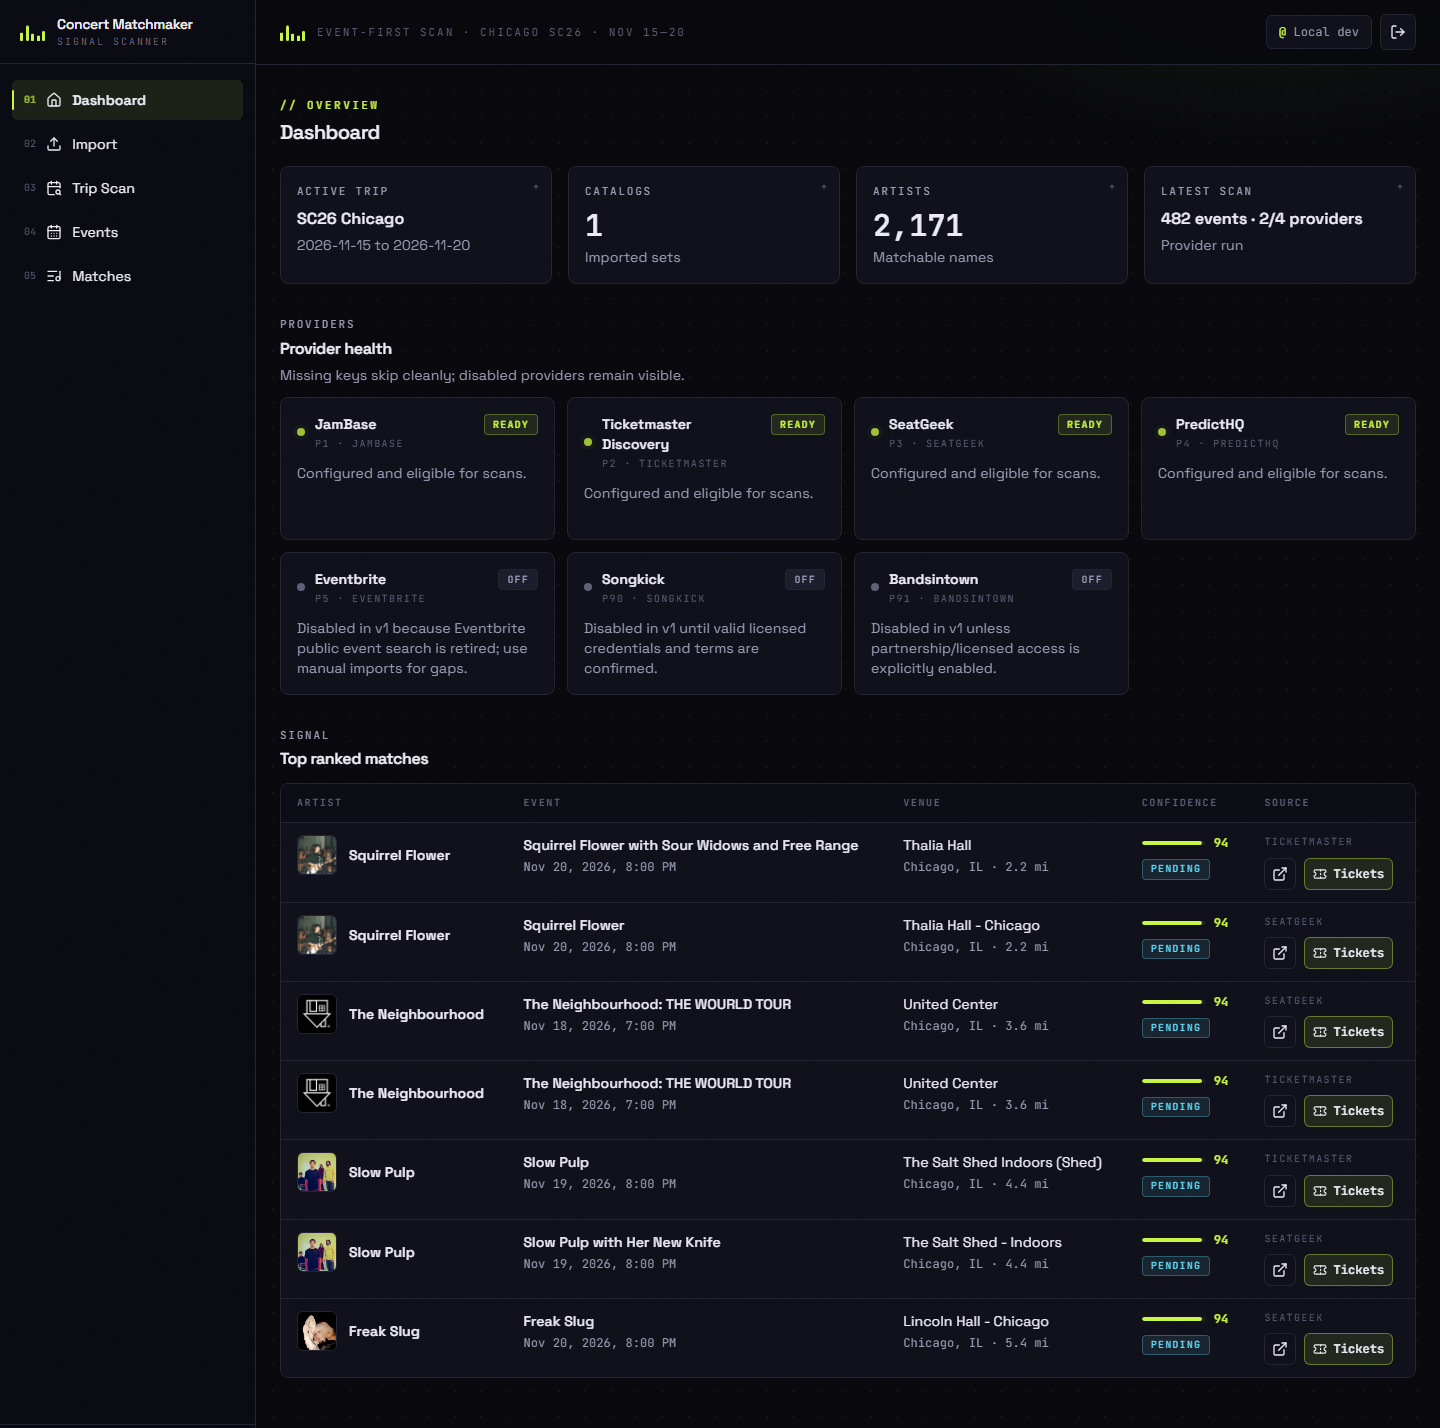
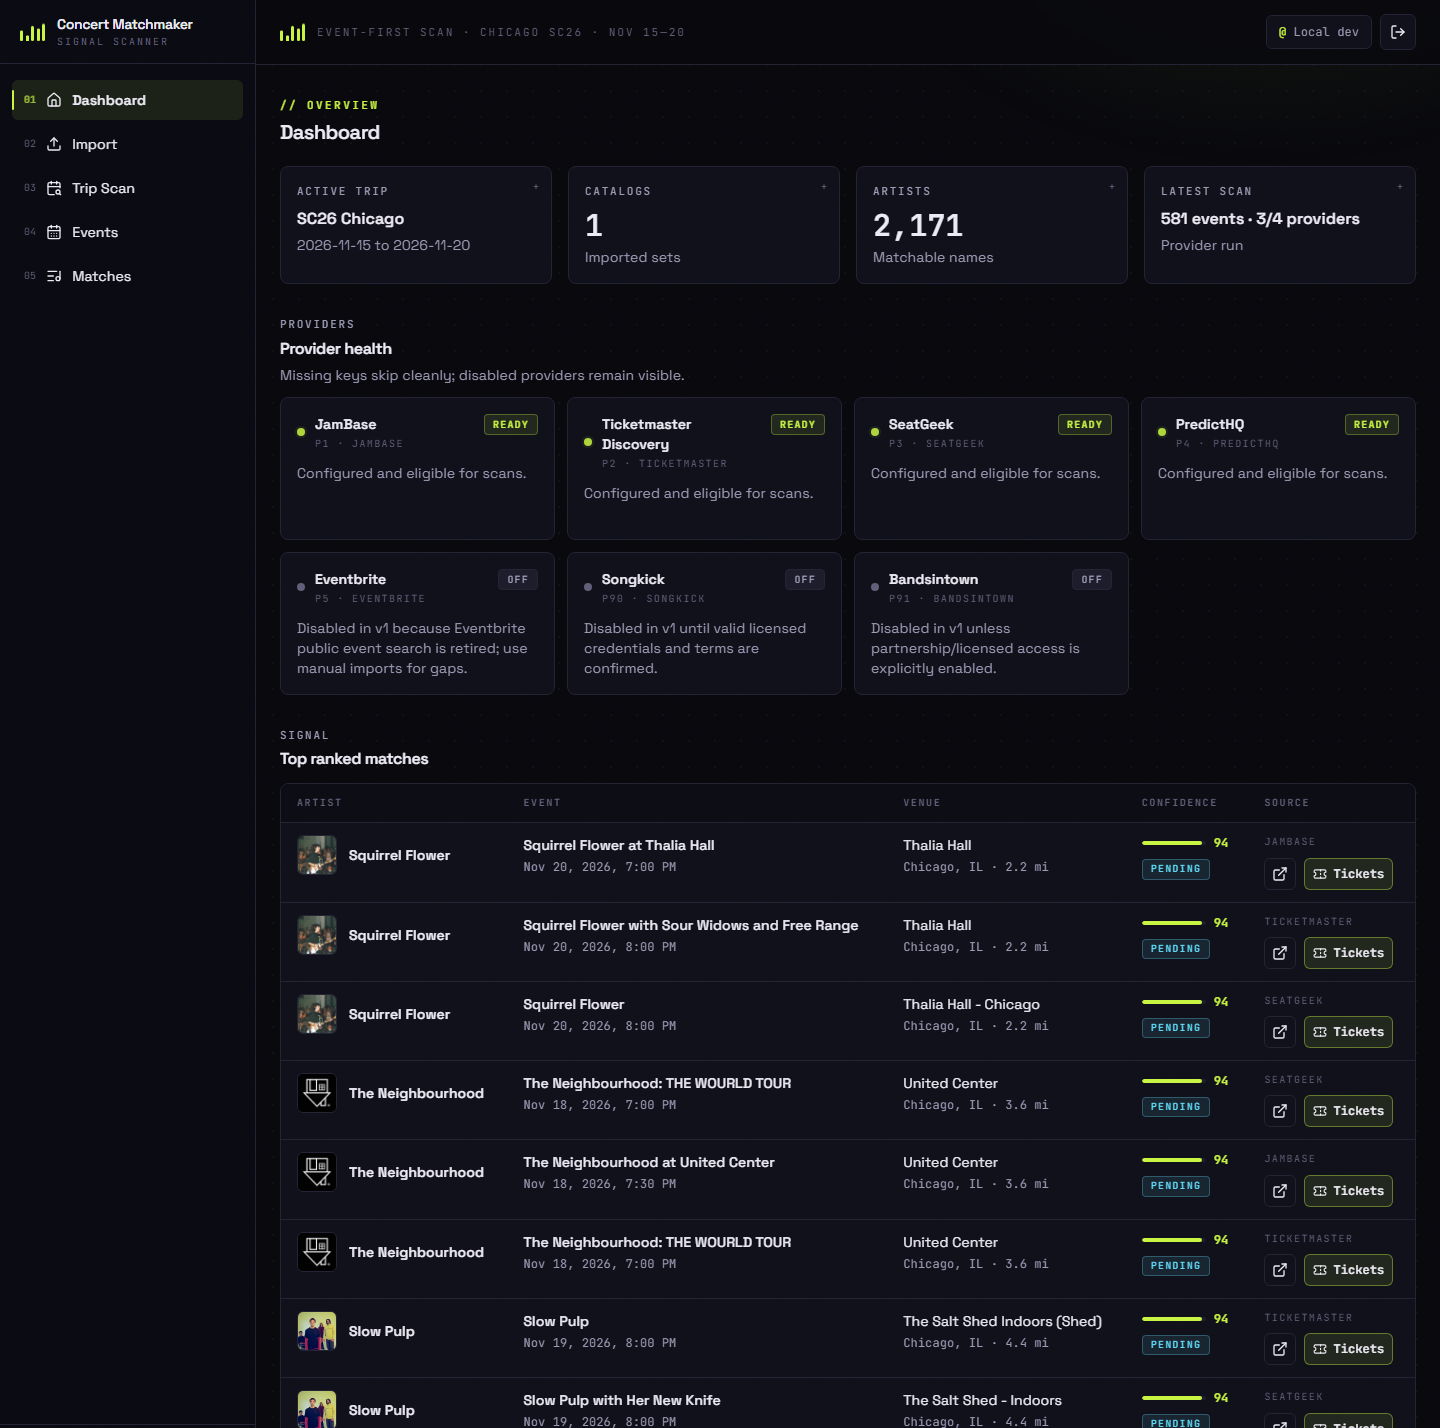
Turn on JamBase: full lineups, venue-local times and all pages
- Read JamBase's schema.org fields: performer lineups, venue-local
  startDate converted with the venue's x-timezone, the primary ticket
  offer, and the nested address for city and state.
- Fetch every page (100 per page) instead of the first 40 events.
- JamBase images sit behind a bot challenge, so JamBase shows borrow the
  headliner's Ticketmaster picture like SeatGeek shows do.
- Stop the guarded subset match from matching repeated-word names
  ('Mother Mother' matched 'Sludge Mother').
- README: Chicago run numbers with JamBase (581 listings, 271 events,
  6 shows) and refreshed screenshots.

diff --git a/lib/providers/adapters.ts b/lib/providers/adapters.ts
@@ -5,6 +5,7 @@ import {
   type ProviderKey,
 } from "@/lib/env";
 import { normalizeArtistName } from "@/lib/normalize";
+import { parseLocalDateTimeInZone } from "@/lib/time";
 import { fetchJson, firstUrl, isoWithoutMs, numberFrom, textFrom } from "./http";
 import type {
   EventProviderAdapter,
@@ -110,22 +111,28 @@ async function scanJamBase(trip: ProviderTrip): Promise<ProviderScanResult> {
   url.searchParams.set("geoRadiusUnits", "mi");
   url.searchParams.set("eventDateFrom", trip.startsOn.toISOString().slice(0, 10));
   url.searchParams.set("eventDateTo", trip.endsOn.toISOString().slice(0, 10));
-  // ponytail: first page only; follow pagination.nextPage once a live JamBase key exists to test it.
+  url.searchParams.set("perPage", "100");
 
-  const payload = await fetchJson<UnknownRecord>(url, {
-    headers: {
-      Authorization: `Bearer ${process.env.JAMBASE_API_KEY}`,
-    },
-  });
-  const events = firstArrayAt(payload, [["events"], ["results"], ["data"]]);
-  if (events.length === 0 && !hasKnownArray(payload, ["events", "results", "data"])) {
-    throw new Error("JamBase response did not include an events array.");
+  const events: unknown[] = [];
+  for (let page = 1; page <= 10; page += 1) {
+    url.searchParams.set("page", String(page));
+    const payload = await fetchJson<UnknownRecord>(url, {
+      headers: {
+        Authorization: `Bearer ${process.env.JAMBASE_API_KEY}`,
+      },
+    });
+    const pageEvents = firstArrayAt(payload, [["events"], ["results"], ["data"]]);
+    if (pageEvents.length === 0 && !hasKnownArray(payload, ["events", "results", "data"])) {
+      throw new Error("JamBase response did not include an events array.");
+    }
+    events.push(...pageEvents);
+    const totalPages = numberFrom(path(payload, ["pagination", "totalPages"])) ?? page;
+    if (page >= totalPages || pageEvents.length === 0) break;
   }
 
-  return {
-    provider: "jambase",
-    events: events.map(mapJamBaseEvent).filter(isEvent),
-  };
+  const mapped = events.map(mapJamBaseEvent).filter(isEvent);
+  await fillImagesFromTicketmaster(mapped);
+  return { provider: "jambase", events: mapped };
 }
 
 async function scanSeatGeek(trip: ProviderTrip): Promise<ProviderScanResult> {
@@ -157,8 +164,9 @@ async function scanSeatGeek(trip: ProviderTrip): Promise<ProviderScanResult> {
   return { provider: "seatgeek", events: mapped };
 }
 
-// SeatGeek's API sends no images; borrow the headliner's picture from
-// Ticketmaster's attraction catalog when the names match exactly.
+// SeatGeek sends no images and JamBase's can't be embedded; borrow the
+// headliner's picture from Ticketmaster's attraction catalog when the names
+// match exactly.
 async function fillImagesFromTicketmaster(events: NormalizedProviderEvent[]) {
   if (!process.env.TICKETMASTER_API_KEY) return;
   const cache = new Map<string, string | undefined>();
@@ -270,7 +278,7 @@ function mapTicketmasterEvent(value: unknown): NormalizedProviderEvent | null {
   };
 }
 
-function mapJamBaseEvent(value: unknown): NormalizedProviderEvent | null {
+export function mapJamBaseEvent(value: unknown): NormalizedProviderEvent | null {
   const event = asRecord(value);
   if (!event) return null;
 
@@ -279,24 +287,36 @@ function mapJamBaseEvent(value: unknown): NormalizedProviderEvent | null {
   if (!title || !venue) return null;
 
   const performers = [
+    ...arrayAt(event, ["performer"]),
     ...arrayAt(event, ["performers"]),
     ...arrayAt(event, ["performances"]).map((performance) =>
       asRecord(performance.artist) ?? performance,
     ),
   ];
+  const genre = textFrom(arrayAt(asRecord(performers[0]) ?? {}, ["genre"])[0]);
+  const offers = arrayAt(event, ["offers"]).map(asRecord);
+  const offer = offers.find((item) => item?.category === "ticketingLinkPrimary") ?? offers[0];
+  // JamBase startDate is venue-local with no offset; the zone sits on the venue address.
+  const startLocal = textFrom(event.startDate) ?? textFrom(event.date);
+  const timezone =
+    textFrom(path(venue, ["address", "x-timezone"])) ?? textFrom(event.timezone);
 
   return {
     provider: "jambase",
     providerId: textFrom(event.id) ?? textFrom(event.identifier),
     title,
-    category: textFrom(event["@type"]) ?? "Concert",
-    imageUrl: textFrom(event.image),
-    startAt: parseDate(event.startDate ?? event.date),
-    startLocal: textFrom(event.startDateLocal) ?? textFrom(event.date),
-    timezone: textFrom(event.timezone),
-    status: textFrom(event.status) ?? "scheduled",
+    // event.image is behind JamBase's bot challenge and can't be embedded; the
+    // scan borrows a Ticketmaster picture instead.
+    category: `Music · ${genre ?? textFrom(event["@type"])?.toLowerCase() ?? "concert"}`,
+    startAt:
+      startLocal && timezone
+        ? parseLocalDateTimeInZone(startLocal, timezone)
+        : parseDate(startLocal),
+    startLocal,
+    timezone,
+    status: textFrom(event.eventStatus) ?? textFrom(event.status) ?? "scheduled",
     providerUrl: textFrom(event.url) ?? firstUrl(event.sameAs),
-    ticketUrl: textFrom(event.ticketUrl) ?? firstUrl(event.offers),
+    ticketUrl: textFrom(event.ticketUrl) ?? textFrom(offer?.url) ?? firstUrl(event.offers),
     venue: mapGenericVenue(venue),
     performers: performers.map(mapGenericPerformer).filter(isPerformer),
   };
@@ -422,11 +442,20 @@ function mapGenericVenue(venue: UnknownRecord): NormalizedVenue {
     address:
       textFrom(venue.address) ??
       textFrom(path(venue, ["address", "line1"])) ??
+      textFrom(path(venue, ["address", "streetAddress"])) ??
       textFrom(path(venue, ["address", "localized_address_display"])),
-    city: textFrom(venue.city) ?? textFrom(path(venue, ["address", "city"])),
-    region: textFrom(venue.region) ?? textFrom(path(venue, ["address", "region"])),
+    city:
+      textFrom(venue.city) ??
+      textFrom(path(venue, ["address", "city"])) ??
+      textFrom(path(venue, ["address", "addressLocality"])),
+    region:
+      textFrom(venue.region) ??
+      textFrom(path(venue, ["address", "region"])) ??
+      textFrom(path(venue, ["address", "addressRegion", "alternateName"])),
     country:
-      textFrom(venue.country) ?? textFrom(path(venue, ["address", "country"])),
+      textFrom(venue.country) ??
+      textFrom(path(venue, ["address", "country"])) ??
+      textFrom(path(venue, ["address", "addressCountry", "identifier"])),
     url: textFrom(venue.url),
   };
 }

diff --git a/tests/jambase.test.ts b/tests/jambase.test.ts
@@ -1,0 +1,44 @@
+import { describe, expect, it } from "vitest";
+import { mapJamBaseEvent } from "@/lib/providers/adapters";
+
+// Trimmed from a real JamBase v3 /events response.
+const concert = {
+  "@type": "Concert",
+  name: "Pimpinela at Rosemont Theatre",
+  identifier: "jambase:16832456",
+  url: "https://www.jambase.com/show/pimpinela-rosemont-theatre-20261115",
+  image: "https://www.jambase.com/wp-content/uploads/2015/06/pimpinela.jpg",
+  eventStatus: "scheduled",
+  startDate: "2026-11-15T20:00:00",
+  location: {
+    "@type": "Venue",
+    name: "Rosemont Theatre",
+    identifier: "jambase:63740",
+    address: {
+      streetAddress: "5400 North River Road",
+      addressLocality: "Rosemont",
+      addressRegion: { alternateName: "IL" },
+      addressCountry: { identifier: "US" },
+      "x-timezone": "America/Chicago",
+    },
+    geo: { latitude: 41.9766, longitude: -87.8637 },
+  },
+  offers: [
+    { url: "https://gametime.example/pimpinela", category: "ticketingLinkSecondary" },
+    { url: "https://ticketmaster.example/pimpinela", category: "ticketingLinkPrimary" },
+  ],
+  performer: [
+    { "@type": "MusicGroup", name: "Pimpinela", identifier: "jambase:46207", genre: ["latin", "pop"] },
+  ],
+};
+
+describe("mapJamBaseEvent", () => {
+  it("reads the lineup, venue-local time and primary ticket link", () => {
+    const event = mapJamBaseEvent(concert)!;
+    expect(event.performers.map((performer) => performer.name)).toEqual(["Pimpinela"]);
+    expect(event.startAt?.toISOString()).toBe("2026-11-16T02:00:00.000Z");
+    expect(event.ticketUrl).toBe("https://ticketmaster.example/pimpinela");
+    expect(event.category).toBe("Music · latin");
+    expect(event.venue).toMatchObject({ city: "Rosemont", region: "IL", latitude: 41.9766 });
+  });
+});

diff --git a/lib/matching.ts b/lib/matching.ts
@@ -84,10 +84,14 @@ export function scorePerformerArtist(
   }
 
   const fuzzy = diceTokenScore(performerName, artistName);
+  // Needs two distinct words: "Mother Mother" collapses to {mother}, which every
+  // "... Mother" act would contain.
+  const artistTokens = tokenSet(artistName);
   const subsetDescriptorMatch =
     performerName.length >= 8 &&
     artistName.length >= 8 &&
-    allTokensIncluded(tokenSet(artistName), tokenSet(performerName));
+    artistTokens.size >= 2 &&
+    allTokensIncluded(artistTokens, tokenSet(performerName));
 
   if (
     (fuzzy >= 0.92 || subsetDescriptorMatch) &&

diff --git a/tests/matching.test.ts b/tests/matching.test.ts
@@ -36,4 +36,8 @@ describe("scorePerformerArtist", () => {
       status: MatchStatus.AMBIGUOUS,
     });
   });
+
+  it("does not let a repeated-word name match any act sharing that word", () => {
+    expect(scorePerformerArtist({ name: "Sludge Mother" }, { name: "Mother Mother" })).toBeNull();
+  });
 });

diff --git a/README.md b/README.md
@@ -17,8 +17,8 @@
 </p>
 
 <p align="center">
-  <strong>2,914 liked songs &middot; 2,171 artists &middot; 482 listings scanned &middot; 218 events &middot; 4 shows worth leaving the hotel for</strong><br>
-  <sub>One real run: SC26 in Chicago, Nov 15–20 2026, 20 miles around McCormick Place, Ticketmaster + SeatGeek. Every performer and every name in every event title checked against every artist in the Spotify library.</sub>
+  <strong>2,914 liked songs &middot; 2,171 artists &middot; 581 listings scanned &middot; 271 events &middot; 6 shows worth leaving the hotel for</strong><br>
+  <sub>One real run: SC26 in Chicago, Nov 15–20 2026, 20 miles around McCormick Place, Ticketmaster + SeatGeek + JamBase. Every performer and every name in every event title checked against every artist in the Spotify library.</sub>
 </p>
 
 ---
@@ -143,8 +143,8 @@ Tests cover normalization, dedupe keys, distance math, import parsing, match con
 
 ## FAQ
 
-**Why did my scan find only four matches?**
-Because the scan read every lineup and your taste is that specific. Add a JamBase key for club shows and the number moves.
+**Why did my scan find so few matches?**
+Because the scan read every lineup and your taste is that specific. Ticketmaster and SeatGeek alone found 4 shows for the Chicago run; adding JamBase found 2 more, both at the Empty Bottle. Club shows live there.
 
 **Does it buy tickets?**
 No. It finds them. The checkout is still on you.
